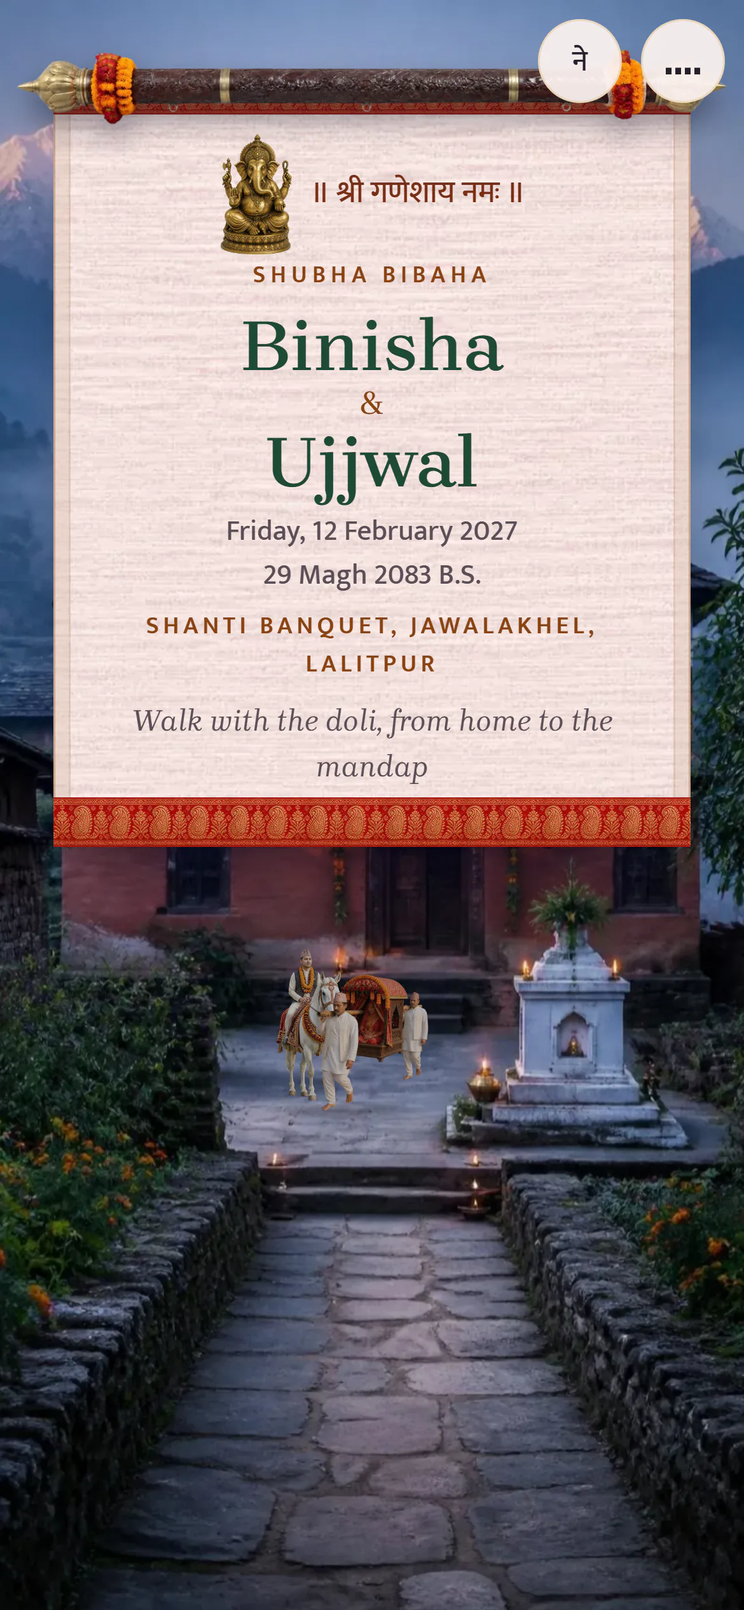
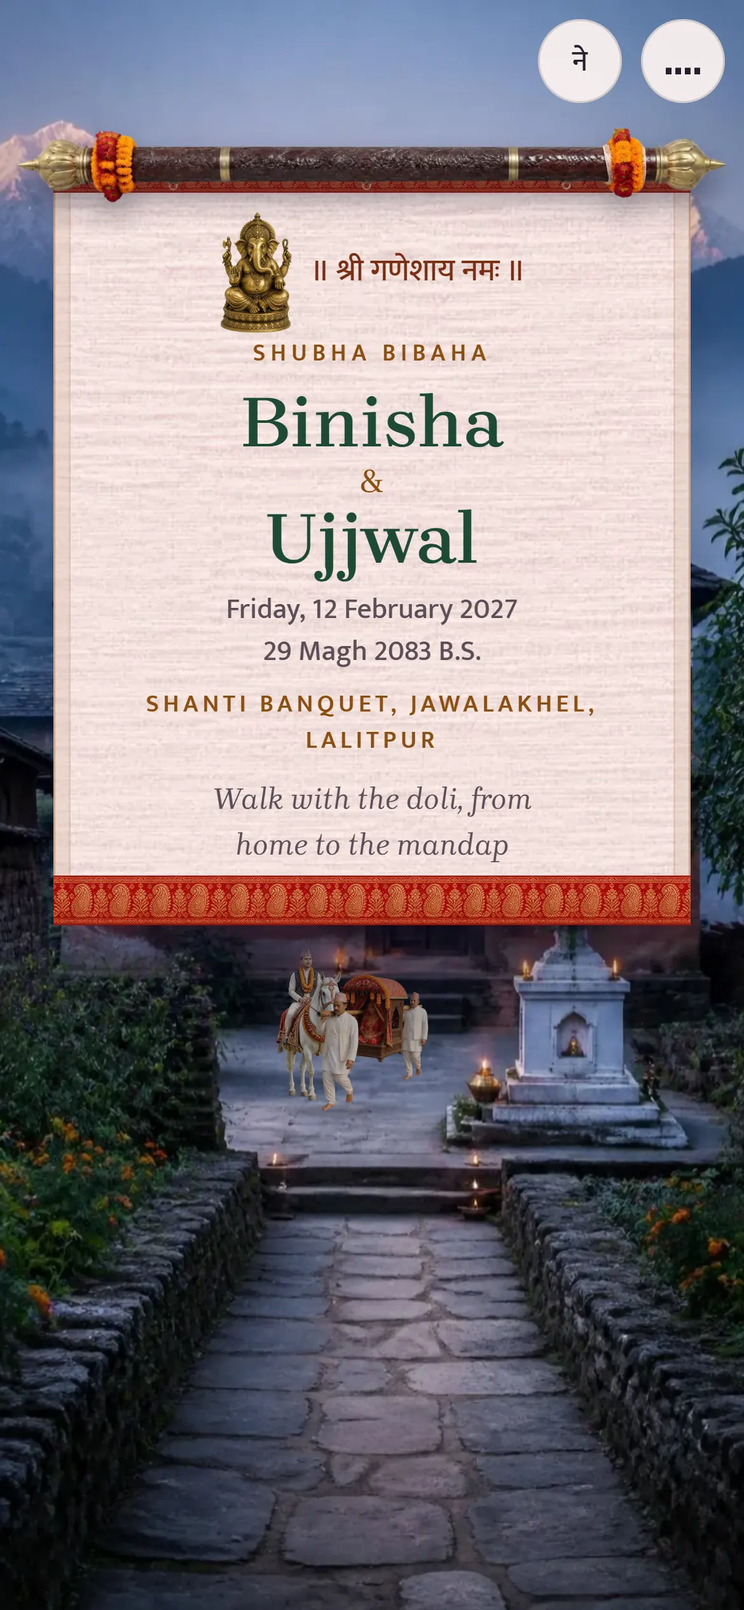
fix(palki): QA pass, the procession arrives at the gate and the mandap, phone and landscape fixes
- Dusk gate and mandap now have the procession: it comes in under the welcome gate and stops at the
  rangoli, then is carried in beside the mandap and set down clear of the sacred fire (stop scenes,
  night lighting), fading before the next place and before the blessing.
- Passing the camera: the procession sinks out under the lens instead of fading over the scene, and
  the near flowers slide out of frame (no ghosted flowers over the bearers).
- First banner and rolled band clear the language button and music pill; compact banner on short
  phones keeps the doli at the door in view; sideways phones hang it on the right, names on one line,
  photographs sized to the short screen.
- Photos keep a portrait place until they load (beats no longer jump ~1100px; studio focus lands first time).
- Rozha One really applies to Devanagari display text (the suite face was overriding it), never on
  numbers (it draws Devanagari digits as Latin).
- Studio: names patched live refit and update the gate initials; marigold colour now drives the small
  marigold text; music sheet readable (light panel), RSVP errors readable on indigo, light focus ring
  on the painted world.
- Preload uses imagesrcset (no double download of the first painting); reduced motion shows the doli
  at the door at home and arrived at the gate and mandap; stills and thumbs re-shot.

Changed region(s): [[0.0308, 0.0312, 0.9846, 0.624], [0.9538, 0.0312, 0.9846, 0.0624]]

diff --git a/src/themes/palki/palki.css b/src/themes/palki/palki.css
@@ -8,7 +8,7 @@ body.su.theme-palki {
   --su-ink-2: #5B4E57;
   --su-accent: #1E4A37;
   --su-accent-ink: #FFFFFF;
-  --su-gold: #C9721A;
+  --su-gold: var(--pk-marigold);
   --su-line: rgba(38, 32, 45, 0.18);
   --su-f-display: 'Brygada 1918', Georgia, serif;
   --su-f-script: 'Brygada 1918', Georgia, serif;
@@ -16,11 +16,19 @@ body.su.theme-palki {
   --su-f-deva: 'Mukta', sans-serif;
   --pk-deva-display: 'Rozha One', 'Mukta', serif;
   --pk-marigold: #C9721A;
-  --pk-marigold-ink: #8A4310; /* marigold as small text on the silk: 6:1 */
+  /* marigold as small text on the silk (6:1 with the default); follows the studio's marigold */
+  --pk-marigold-ink: #8A4310;
+  --pk-marigold-ink: color-mix(in srgb, var(--pk-marigold) 69%, #000);
   --pk-night: #171A3A;
   --pk-diyo: #F2C46B;
   --pk-silk: #F7E7E4;
   --su-radius: 4px;
+  /* core tokens (the music sheet): a dawn-silk panel with dark ink */
+  --bg-2: #FBF1EF;
+  --hair: rgba(38, 32, 45, 0.16);
+  --ink-dim: #5B4E57;
+  --accent-2: #26202D;
+  --pk-banner-top: calc(env(safe-area-inset-top, 0px) + 66px);
   --f-display: var(--su-f-body);
   --f-body: var(--su-f-body);
   --paper-accent: var(--su-accent);
@@ -30,6 +38,9 @@ body.su.theme-palki {
 }
 html:has(body.theme-palki) { background: #1B2238; }
 body.theme-palki .hud__btn, body.theme-palki .pill { background: rgba(251, 241, 239, 0.94); color: var(--su-ink); }
+body.theme-palki .sheet__list button { color: var(--su-ink); border-bottom-color: rgba(138, 67, 16, 0.18); }
+body.theme-palki .sheet__list button[aria-checked='true'] { background: rgba(201, 114, 26, 0.12); }
+body.theme-palki .sheet .eyebrow { color: var(--pk-marigold-ink); }
 
 /* ───────── the world behind the page ───────── */
 .pk-world { position: fixed; inset: 0; z-index: 0; overflow: hidden; pointer-events: none; background: #1B2238; contain: strict; }
@@ -51,12 +62,15 @@ body.theme-palki .hud__btn, body.theme-palki .pill { background: rgba(251, 241, 
 .pk-proc[data-light='dawn'] img { filter: brightness(0.78) contrast(0.96) saturate(0.82); }
 .pk-proc[data-light='sunrise'] img { filter: brightness(0.96) sepia(0.12) saturate(1.04); }
 .pk-proc[data-light='dusk'] img { filter: brightness(0.82) sepia(0.28) saturate(1.05); }
+.pk-proc[data-light='night'] img { filter: brightness(0.7) sepia(0.4) saturate(1.15); }
+.pk-proc[data-light='night'] .pk-proc__shadow, .pk-proc[data-light='dusk'] .pk-proc__shadow { opacity: 0.8; }
 
 /* fresh marigolds and roses close to the camera, on the day scenes only */
-.pk-near { position: absolute; inset: 0; z-index: 4; opacity: 0; --nk: 1; }
+.pk-near { position: absolute; inset: 0; z-index: 4; opacity: 0; --nk: 1; --no: 0; }
 .pk-near img { position: absolute; bottom: -7vh; width: clamp(220px, 30vw, 520px); height: auto; max-width: none; }
-.pk-near__l { left: -7vw; transform-origin: 0 100%; transform: scale(var(--nk)); }
-.pk-near__r { right: -7vw; transform-origin: 100% 100%; transform: scale(var(--nk)) scaleX(-1); }
+/* --no: the camera passes them (they slide out of the frame, outward and down) */
+.pk-near__l { left: -7vw; transform-origin: 0 100%; transform: translate(calc(var(--no) * -70%), calc(var(--no) * 45%)) scale(var(--nk)); }
+.pk-near__r { right: -7vw; transform-origin: 100% 100%; transform: translate(calc(var(--no) * 70%), calc(var(--no) * 45%)) scale(var(--nk)) scaleX(-1); }
 
 /* the mist the camera passes through between two places */
 .pk-veil { position: absolute; left: -20%; top: 0; z-index: 5; width: 140%; height: 100%; object-fit: cover; max-width: none; opacity: 0; will-change: transform, opacity; }
@@ -110,7 +124,7 @@ html[data-lang='ne'] .pk-lede { font-size: 18px; line-height: 1.8; }
 /* ───────── the first screen: the banner over the dawn ───────── */
 .pk-top { min-height: 100svh; display: block; overflow: visible; isolation: auto; }
 .pk-top .su-cue { color: #F7EEE9; text-shadow: 0 1px 8px rgba(10, 10, 30, 0.6); }
-.pk-banner { position: absolute; z-index: 2; top: clamp(10px, 3svh, 28px); right: clamp(20px, 6vw, 110px); width: min(440px, 36vw); container-type: inline-size; }
+.pk-banner { position: absolute; z-index: 2; top: var(--pk-banner-top); right: clamp(20px, 6vw, 110px); width: min(440px, 36vw); container-type: inline-size; }
 .pk-banner__rod { position: relative; z-index: 2; display: block; width: 112cqw; margin-left: -6cqw; height: auto; max-width: none; filter: drop-shadow(0 8px 8px rgba(10, 10, 30, 0.45)); }
 .pk-banner__cloth { position: relative; margin-top: -6.6cqw; padding: clamp(30px, 9cqw, 46px) clamp(16px, 6cqw, 34px) clamp(30px, 8cqw, 44px); text-align: center; transform-origin: 50% 0;
   background: url('/themes/palki/art/silk-blush.webp') center / 640px auto, var(--pk-silk);
@@ -129,7 +143,7 @@ html[data-lang='ne'] .pk-lede { font-size: 18px; line-height: 1.8; }
 .pk-banner__date > span { display: block; font-size: 15px; color: var(--su-ink-2); }
 .pk-banner__place { margin: 6px 0 0; font: 600 13px/1.5 var(--su-f-body); letter-spacing: 0.16em; text-transform: uppercase; color: var(--pk-marigold-ink); }
 .pk-banner__place .l-ne { font-size: 15px; letter-spacing: 0; text-transform: none; }
-.pk-banner__line { margin: 12px auto 0; max-width: 30ch; font: italic 400 17px/1.5 var(--su-f-display); color: var(--su-ink-2); }
+.pk-banner__line { margin: 12px auto 0; max-width: 30ch; text-wrap: balance; font: italic 400 17px/1.5 var(--su-f-display); color: var(--su-ink-2); }
 .pk-banner__line .l-ne { font: 400 17px/1.7 var(--su-f-body); font-style: normal; }
 /* under the closed gate the banner is still rolled on its pole */
 body.pk-rolled .pk-banner { opacity: 0; }
@@ -140,7 +154,7 @@ body.pk-rolled .pk-banner { opacity: 0; }
 .pk-g__mist { position: absolute; left: -15%; width: 130%; height: 70%; object-fit: cover; max-width: none; opacity: 0.95; will-change: transform, opacity; }
 .pk-g__mist--a { bottom: -6%; }
 .pk-g__mist--b { top: -4%; transform: scale(-1, -1); opacity: 0.7; }
-.pk-g__roll { position: absolute; top: clamp(10px, 3svh, 28px); right: clamp(20px, 6vw, 110px); width: min(440px, 36vw); container-type: inline-size; cursor: pointer; pointer-events: auto; }
+.pk-g__roll { position: absolute; top: var(--pk-banner-top); right: clamp(20px, 6vw, 110px); width: min(440px, 36vw); container-type: inline-size; cursor: pointer; pointer-events: auto; }
 .pk-g__rod { position: relative; z-index: 2; display: block; width: 112cqw; margin-left: -6cqw; height: auto; max-width: none; filter: drop-shadow(0 8px 8px rgba(10, 10, 30, 0.45)); }
 .pk-g__band { position: relative; margin: -6.6cqw 2cqw 0; padding: 30px 12px 22px; background: url('/themes/palki/art/silk-blush.webp') center / 520px auto, var(--pk-silk);
   box-shadow: inset 0 -14px 14px -10px rgba(90, 40, 30, 0.35), 0 18px 30px -16px rgba(8, 8, 30, 0.75); }
@@ -235,9 +249,9 @@ body.pk-rolled .pk-banner { opacity: 0; }
 .pk-day__wd { margin: 0; font: 600 13px/1.4 var(--su-f-body); letter-spacing: 0.22em; text-transform: uppercase; color: var(--pk-marigold-ink); }
 .pk-day__wd .l-ne { font-size: 16px; letter-spacing: 0; }
 .pk-day__big { margin: 2px 0; font: 500 clamp(72px, 16cqw, 96px)/1 var(--su-f-display); color: var(--su-accent); }
-.pk-day__big .l-ne { font-family: var(--pk-deva-display); }
+.pk-day__big .l-ne { font-family: var(--su-f-deva); font-weight: 600; }
 .pk-day__my { margin: 0; font: italic 500 22px/1.3 var(--su-f-display); }
-.pk-day__my .l-ne { font: 400 21px/1.5 var(--pk-deva-display); font-style: normal; }
+.pk-day__my .l-ne { font: 500 21px/1.5 var(--su-f-deva); font-style: normal; }
 .pk-day__alt { margin: 6px 0 0; font-size: 15px; color: var(--su-ink-2); }
 .pk-day__time { margin: 10px 0 0; font: 600 16px/1.4 var(--su-f-body); }
 .pk-day__place { margin: 4px 0 0; font-size: 15.5px; color: var(--su-ink-2); }
@@ -248,7 +262,7 @@ body.pk-rolled .pk-banner { opacity: 0; }
 .pk-count__grid li { display: flex; flex-direction: column; align-items: center; padding: 8px 0; border-left: 1px solid rgba(138, 67, 16, 0.3); }
 .pk-count__grid li:first-child { border-left: 0; }
 .pk-count__n { font: 500 clamp(34px, 9cqw, 48px)/1 var(--su-f-display); color: var(--su-accent); font-variant-numeric: tabular-nums; }
-.pk-count__n .l-ne { font-family: var(--pk-deva-display); }
+.pk-count__n .l-ne { font-family: var(--su-f-deva); font-weight: 600; }
 .pk-count__l { margin-top: 6px; font: 600 11.5px/1.2 var(--su-f-body); letter-spacing: 0.16em; text-transform: uppercase; color: var(--su-ink-2); }
 .pk-count__l .l-ne { font-size: 14px; letter-spacing: 0; text-transform: none; }
 .pk-count__done { margin: 0; font: italic 500 24px/1.4 var(--su-f-display); color: var(--su-accent); }
@@ -261,28 +275,28 @@ body.pk-rolled .pk-banner { opacity: 0; }
 .pk-vows li { display: grid; grid-template-columns: 34px 1fr; gap: 12px; align-items: baseline; padding: 8px 0; border-top: 1px solid rgba(242, 196, 107, 0.22); font-size: 16.5px; line-height: 1.6; }
 .pk-vows li:first-child { border-top: 0; }
 .pk-vows__n { font: italic 500 22px/1 var(--su-f-display); color: var(--pk-diyo); text-align: center; }
-.pk-vows__n .l-ne { font-family: var(--pk-deva-display); font-style: normal; }
+.pk-vows__n .l-ne { font-family: var(--su-f-deva); font-style: normal; }
 .pk-cloth--rsvp .su-form { margin-top: 22px; text-align: left; }
 .pk-cloth--rsvp .su-field > label, .pk-cloth--rsvp .su-field > legend { color: #F6EEE3; }
 .pk-cloth--rsvp .su-field input[type='text'], .pk-cloth--rsvp .su-field input[type='tel'], .pk-cloth--rsvp .su-field textarea, .pk-cloth--rsvp .su-field select {
   background: rgba(255, 252, 248, 0.97); color: var(--su-ink); border: 1px solid rgba(242, 196, 107, 0.6); border-radius: 2px; }
 .pk-cloth--rsvp .choice { border-color: rgba(242, 196, 107, 0.45); color: #F6EEE3; }
 .theme-palki .pk-cloth--rsvp .choice:has(input:checked) { border-color: var(--pk-diyo); box-shadow: inset 0 0 0 1px var(--pk-diyo); }
-.pk-cloth--rsvp { --paper-accent: var(--pk-diyo); }
+.pk-cloth--rsvp { --paper-accent: var(--pk-diyo); --err: #FFB4A8; }
 .pk-cloth--rsvp .choice { font: 500 16.5px/1.3 var(--su-f-body); }
 .theme-palki .pk-cloth--rsvp .gstep { color: #F6EEE3; border-color: rgba(242, 196, 107, 0.5); }
 .theme-palki .pk-cloth--rsvp .gstep__b { color: #F6EEE3; background: rgba(255, 255, 255, 0.1); }
 .pk-cloth--rsvp .su-btn { width: 100%; background: var(--pk-diyo); border-color: var(--pk-diyo); color: #1B1C33; }
 .pk-cloth--rsvp .rsvp__status { color: #F6EEE3; }
-.pk-cloth--rsvp .su-err { color: #FFB4A8; }
+.pk-cloth--rsvp .su-err, body.theme-palki .pk-cloth--rsvp .rsvp__status.is-error, .pk-cloth--rsvp .field__err { color: #FFB4A8; }
 .pk-cloth--night :focus-visible { outline-color: var(--pk-diyo); }
 
 /* the blessing, under the lamps */
 .pk-close { position: relative; z-index: 1; padding: 12svh 20px 40px; text-align: center; color: #F6EEE3; background: linear-gradient(180deg, rgba(14, 14, 36, 0), rgba(14, 14, 36, 0.86) 34%, #12122A); }
 .pk-close__lamps { display: flex; justify-content: center; gap: 60px; margin-bottom: 18px; }
 .pk-close__diyo { width: 64px; }
-.pk-close__ne { margin: 0 auto; max-width: 34ch; font: 400 22px/1.7 var(--pk-deva-display); color: var(--pk-diyo); }
-.pk-close__en { margin: 10px auto 0; max-width: 40ch; font: italic 400 19px/1.6 var(--su-f-display); }
+.pk-close__ne { margin: 0 auto; max-width: 34ch; text-wrap: balance; font: 400 22px/1.7 var(--pk-deva-display); color: var(--pk-diyo); }
+.pk-close__en { margin: 10px auto 0; max-width: 40ch; text-wrap: balance; font: italic 400 19px/1.6 var(--su-f-display); }
 .pk-close__names { margin: 22px 0 0; font: 500 clamp(30px, 4vw, 44px)/1.2 var(--su-f-display); color: #FFF7EC; }
 .pk-close__names .l-ne { font-family: var(--pk-deva-display); }
 .pk-close__tag { margin: 10px 0 0; font-size: 15px; letter-spacing: 0.08em; color: #E2D3C2; }
@@ -314,6 +328,29 @@ body.pk-rolled .pk-banner { opacity: 0; }
   .pk-cloth, .pk-ev .pk-cloth, .pk-cloth--title, .pk-cloth--slip { width: min(460px, calc(100vw - 48px)); }
   .pk-near img { width: clamp(180px, 46vw, 300px); bottom: -4vh; }
 }
+/* short phones: a more compact banner, so the doli waiting at the door stays in view below it */
+@media (max-width: 899px) and (max-height: 800px) {
+  body.su.theme-palki { --pk-banner-top: calc(env(safe-area-inset-top, 0px) + 58px); }
+  .pk-banner__cloth { padding-top: 18px; padding-bottom: 24px; }
+  .pk-banner__gan { width: 30px; }
+  .pk-names { font-size: clamp(32px, 10cqw, 40px); }
+  .pk-banner__date { font-size: 15.5px; line-height: 1.4; }
+  .pk-banner__date > span { font-size: 14px; }
+  .pk-banner__line { max-width: none; margin-top: 6px; font-size: 15px; }
+}
+/* phones held sideways: the banner hangs on the right, clear of the house and the doli at its door */
+@media (max-width: 899px) and (orientation: landscape) and (max-height: 520px) {
+  .pk-banner, .pk-g__roll { left: auto; right: max(28px, env(safe-area-inset-right, 0px)); translate: none; width: min(360px, 44vw); }
+  .pk-banner__inv { margin-bottom: 0; }
+  .pk-names { flex-direction: row; justify-content: center; flex-wrap: wrap; column-gap: 10px; font-size: clamp(28px, 9cqw, 34px); }
+  .pk-names__amp { margin: 0; align-self: center; }
+  .pk-banner__cloth { padding-top: 14px; padding-bottom: 22px; }
+  /* photographs sized to the short screen: each one seen whole */
+  .pk-window { width: min(250px, 32vw); }
+  .pk-album { grid-template-columns: repeat(3, minmax(0, 1fr)); width: min(620px, 100%); }
+  .pk-album__ph:nth-child(2n) { margin-top: 0; }
+  .pk-album__ph:nth-child(3n + 2) { margin-top: 24px; }
+}
 @media (max-width: 420px) {
   .pk-cloth__body { padding-left: 16px; padding-right: 16px; }
   .pk-ev__dl > div { grid-template-columns: 1fr; gap: 0; }
@@ -325,3 +362,16 @@ body.pk-rolled .pk-banner { opacity: 0; }
 @media (prefers-reduced-motion: reduce) {
   .pk-window__cur, .pk-cloth__body, .pk-album__ph, .pk-tag { transition: none !important; }
 }
+
+/* focus on the painted world (the opening, the buttons hung over the scene): a light ring that reads on dawn and night */
+.theme-palki .su-gate :focus-visible, .theme-palki .pk-btns :focus-visible, .theme-palki .pk-more:focus-visible, .theme-palki .su-cue:focus-visible, .theme-palki .pk-close :focus-visible {
+  outline: 2px solid #FFF3E6; outline-offset: 3px; }
+
+/* photographs keep a portrait place until they arrive (the beats below them stay where they are: no jumps) */
+.pk-window__pic img, .pk-album__btn img, .pk-fam__pic img { aspect-ratio: auto 4 / 5; }
+
+/* the Devanagari display face (Rozha One): stated with the theme's weight, so the suite's reading face for .l-ne
+   (loaded after this file) does not take it back. Never on numbers: Rozha One draws ०-९ as Latin 0-9, so dates and
+   counts stay in Mukta. */
+body.theme-palki :is(.pk-names, .pk-h, .pk-tag__t, .pk-fam__name, .pk-ev__title, .pk-count__t, .pk-g__mono, .pk-close__names) .l-ne,
+body.theme-palki .pk-close__ne { font-family: var(--pk-deva-display); }

diff --git a/src/themes/palki/main.js b/src/themes/palki/main.js
@@ -33,13 +33,14 @@ const SCENES = [
   { n: 's4', light: 'day', alt: 'A suspension bridge hung with marigolds over a turquoise river, a pagoda temple on the far bank, a snow peak above',
     L: { fx: 0.45, fy: 0.6, path: [[0.47, 0.75, 0.08], [0.4, 0.86, 0.2], [0.34, 1.0, 0.48]] },
     P: { fx: 0.5, fy: 0.6, path: [[0.47, 0.74, 0.07], [0.47, 0.86, 0.17], [0.5, 1.0, 0.32]] } },
-  { n: 's5', light: 'dusk', alt: 'A welcome gate of banana stems and marigold garlands at dusk, brass kalash, a petal rangoli and rows of lit diyos',
-    // the procession has gone in under the gate: the lamps are lit and the gate waits for the guests
-    L: { fx: 0.5, fy: 0.6, path: null },
-    P: { fx: 0.5, fy: 0.6, path: null } },
-  { n: 's6', light: 'night', alt: 'A mandap dressed in marigolds and roses under the night sky, the sacred fire lit, hundreds of diyos around it',
-    L: { fx: 0.5, fy: 0.55, path: null },
-    P: { fx: 0.5, fy: 0.6, path: null } },
+  { n: 's5', light: 'dusk', stop: true, alt: 'A welcome gate of banana stems and marigold garlands at dusk, brass kalash, a petal rangoli and rows of lit diyos',
+    // the procession comes through the welcome gate and stops at the edge of the rangoli, where the guests wait
+    L: { fx: 0.5, fy: 0.6, path: [[0.47, 0.585, 0.075], [0.47, 0.68, 0.15], [0.47, 0.795, 0.27]] },
+    P: { fx: 0.5, fy: 0.6, path: [[0.5, 0.615, 0.05], [0.5, 0.65, 0.1], [0.5, 0.69, 0.18]] } },
+  { n: 's6', light: 'night', stop: true, alt: 'A mandap dressed in marigolds and roses under the night sky, the sacred fire lit, hundreds of diyos around it',
+    // the doli is carried in beside the mandap and set down there, clear of the sacred fire
+    L: { fx: 0.5, fy: 0.55, path: [[0.12, 0.68, 0.15], [0.18, 0.74, 0.21], [0.24, 0.81, 0.29]] },
+    P: { fx: 0.5, fy: 0.6, path: [[0.27, 0.64, 0.08], [0.31, 0.69, 0.12], [0.35, 0.74, 0.17]] } },
 ];
 
 const pic = (s, eager) => {
@@ -263,7 +264,7 @@ function journey(ctx) {
   };
   load(0); load(1);
 
-  let vw = 0; let vh = 0; let ori = 'L'; let geo = []; let A = []; let base = 1000;
+  let vw = 0; let vh = 0; let ori = 'L'; let geo = []; let A = []; let base = 1000; let closeTop = Infinity;
   function layout() {
     vw = window.innerWidth; vh = window.innerHeight;
     ori = window.matchMedia(PORTRAIT_Q).matches ? 'P' : 'L';
@@ -287,6 +288,8 @@ function journey(ctx) {
     proc.dataset.ori = ori;
     // where each chapter's beat begins and ends on the page
     A = beats.map((b) => { const r = b.getBoundingClientRect(); const top = r.top + window.scrollY; return { a: top, b: top + b.offsetHeight }; });
+    const close = document.querySelector('.pk-close');
+    closeTop = close ? close.getBoundingClientRect().top + window.scrollY : Infinity;
   }
 
   // a scene point after the scene's push-in scale s
@@ -299,7 +302,7 @@ function journey(ctx) {
     const u = (1 - t) * (1 - t) * f[0] + 2 * (1 - t) * t * m[0] + t * t * nr[0];
     let v = (1 - t) * (1 - t) * f[1] + 2 * (1 - t) * t * m[1] + t * t * nr[1];
     let h = f[2] * (nr[2] / f[2]) ** t;
-    if (qq > 1) { const e = qq - 1; v += e * 0.55; h *= 1 + e * 1.3; } // past the camera
+    if (qq > 1) { const e = qq - 1; v += e * 2.6; h *= 1 + e * 1.2; } // past the camera: they sink out under the lens
     return { u, v, h };
   };
 
@@ -338,7 +341,7 @@ function journey(ctx) {
   function render() {
     const y = window.scrollY;
     if (reduced) {
-      // still: the chapter in view shows its painting (a fade), the procession stands half-way down its trail
+      // still: the chapter in view shows its painting (a fade), the procession stands on its trail (arrived, at the end)
       let i = 0; for (let k = 0; k < A.length; k++) if (y >= A[k].a - vh * 0.5) i = k;
       const key = `${i}|${ori}|${vw}x${vh}`;
       if (key === lastKey) return;
@@ -346,7 +349,7 @@ function journey(ctx) {
       setScene(i);
       scenes.forEach((sc, k) => sc.classList.toggle('is-on', k === i));
       plates.forEach((pl) => { pl.style.transform = 'none'; });
-      place(i, 0.72, 1, 1);
+      place(i, SCENES[i].stop ? 1 : i === 0 ? 0 : 0.55, 1, 1); // home: at the door; on the road: mid-way, whole in view
       return;
     }
     // which scenes are on screen: chapter i takes over as its beat comes up (the camera passes through the mist)
@@ -377,14 +380,21 @@ function journey(ctx) {
 
     // the procession: down this scene's trail toward the camera, then past it
     const B = A[i];
-    const W0 = i === 0 ? 0 : B.a - vh * 0.1; const W1 = B.b - vh * 1.0;
-    const q = (y - W0) / Math.max(1, W1 - W0);
-    const alpha = clamp((q + 0.12) / 0.12) * (1 - clamp((q - 1.04) / 0.22)) * (i > 0 ? clamp((k - 0.55) / 0.3) : 1);
+    const stop = !!SCENES[i].stop; // the last two places: the procession arrives and stays
+    const W0 = i === 0 ? 0 : B.a - vh * 0.1; const W1 = B.b - vh * (stop ? 1.15 : 1.0);
+    const q0 = (y - W0) / Math.max(1, W1 - W0);
+    const q = stop ? Math.min(1, q0) : q0;
+    let alpha = clamp((q0 + 0.12) / 0.12) * (i > 0 ? clamp((k - 0.55) / 0.3) : 1);
+    if (!stop) alpha *= 1 - clamp((q - 1.1) / 0.12); // mostly below the frame by then: no ghosts over the scene
+    else if (A[i + 1]) alpha *= 1 - clamp((y - (A[i + 1].a - vh * 1.25)) / (vh * 0.5)); // gone before the next place
+    else alpha *= 1 - clamp((y - (closeTop - vh * 0.9)) / (vh * 0.5)); // the last place: gone before the blessing
     const s = (1 + 0.07 * (1 - ke)) * (1 + 0.05 * life(i));
     place(i, q, s, alpha);
-    // the near flowers frame the walk on the day scenes, then step aside for the words
-    const fl = SCENES[i].light === 'day' || SCENES[i].light === 'sunrise' ? clamp(q * 4 + 0.2) * (1 - clamp((q - 0.9) / 0.25)) * (i > 0 ? ke : 1) : 0;
+    // the near flowers frame the walk on the day scenes; as the procession reaches the camera they slide out past the
+    // lens (never fade over the bearers)
+    const fl = SCENES[i].light === 'day' || SCENES[i].light === 'sunrise' ? clamp(q * 4 + 0.2) * (i > 0 ? ke : 1) : 0;
     near.style.opacity = fl.toFixed(3);
+    near.style.setProperty('--no', smooth(clamp((q - 0.8) / 0.4)).toFixed(3));
     near.style.setProperty('--nk', (1 + 0.25 * clamp(q)).toFixed(3));
   }
 
@@ -458,6 +468,26 @@ function fitNames() {
   for (let i = 0; i < 14 && [...h.querySelectorAll('.pk-names__n')].some((n) => n.scrollWidth > max); i++) { fs *= 0.93; h.style.fontSize = `${fs}px`; }
 }
 
+// the studio edits the names in place (a live patch): fit them again and keep the rolled banner's initials in step
+function watchNames() {
+  const h = document.querySelector('.pk-names');
+  if (!h || !('MutationObserver' in window)) return;
+  const firstOf = (t) => { const v = String(t || '').trim(); if (!v) return ''; try { return [...new Intl.Segmenter('ne', { granularity: 'grapheme' }).segment(v)][0].segment; } catch { return v.charAt(0); } };
+  let raf = 0;
+  new MutationObserver(() => {
+    cancelAnimationFrame(raf);
+    raf = requestAnimationFrame(() => {
+      fitNames();
+      const names = [...h.querySelectorAll('.pk-names__n')];
+      const mono = [...document.querySelectorAll('.pk-g__mono > span')];
+      names.forEach((n, i) => ['l-en', 'l-ne'].forEach((c) => {
+        const to = mono[i]?.querySelector(`.${c}`); const from = n.querySelector(`.${c}`);
+        if (to && from) { const v = firstOf(from.textContent); if (to.textContent !== v) to.textContent = v; }
+      }));
+    });
+  }).observe(h, { subtree: true, characterData: true, childList: true });
+}
+
 let J = null;
 const SPEC = {
   slug: 'palki',
@@ -472,6 +502,7 @@ const SPEC = {
     initNepali();
     fitNames();
     document.fonts?.ready.then(fitNames);
+    watchNames();
     let rw = window.innerWidth;
     window.addEventListener('resize', () => { if (window.innerWidth === rw) return; rw = window.innerWidth; fitNames(); });
     J = journey(ctx);

diff --git a/palki/index.html b/palki/index.html
@@ -16,8 +16,8 @@
   <link rel="preconnect" href="https://fonts.googleapis.com" />
   <link rel="preconnect" href="https://fonts.gstatic.com" crossorigin />
   <link rel="stylesheet" href="https://fonts.googleapis.com/css2?family=Brygada+1918:ital,wght@0,400;0,500;0,600;1,400;1,500&family=Rozha+One&family=Mukta:wght@400;500;600&display=swap" />
-  <link rel="preload" as="image" href="/themes/palki/art/s1-p-sm.webp" media="(max-aspect-ratio: 9/10)" />
-  <link rel="preload" as="image" href="/themes/palki/art/s1-l.webp" media="(min-aspect-ratio: 9/10)" />
+  <link rel="preload" as="image" imagesrcset="/themes/palki/art/s1-p-sm.webp 600w, /themes/palki/art/s1-p.webp 944w" imagesizes="100vw" media="(max-aspect-ratio: 9/10)" />
+  <link rel="preload" as="image" imagesrcset="/themes/palki/art/s1-l-sm.webp 1024w, /themes/palki/art/s1-l.webp 1680w" imagesizes="100vw" media="(min-aspect-ratio: 9/10)" />
 </head>
 <body class="theme-palki">
   <main id="main"></main>

diff --git a/src/themes/palki/README.md b/src/themes/palki/README.md
@@ -27,7 +27,7 @@ painting, sized to cover with a focal point. As the guest scrolls, the processio
 on the horse) walks each scene's trail from the far distance toward the camera with perspective (geometric growth along
 a curve, a step bob tied to the distance walked), then past it. Between scenes the camera pushes on: the old painting
 scales up and fades, mist passes the lens, the next painting settles in. Day scenes get fresh marigold and rose bushes
-close to the lens. Transform and opacity only; the cut-outs are lit per scene (dawn, sunrise, day, dusk).
+close to the lens. Transform and opacity only; the cut-outs are lit per scene (dawn, sunrise, day, dusk, night).
 
 Chapters (`.pk-beat` = the walk, then the chapter's cloths):
 1. Home at dawn: the elders' blessing, the card line, hosts, kalash and diyo, the full card.
@@ -35,11 +35,17 @@ Chapters (`.pk-beat` = the walk, then the chapter's cloths):
 3. The chautari (a pipal and a bar tree side by side): the two families on two cloths, the ganthi bandhan between.
 4. Across the river (suspension bridge, pagoda temple): one cloth per celebration (AD + B.S., time, venue + map, dress,
    order of the day), calendar and share, travel/stays/contacts.
-5. Arriving at dusk (the welcome gate, rangoli, diyos): the day under a dawn mist you scratch away, the countdown.
-6. The mandap on the night of lamps: the seven steps (saptapadi), the reply on indigo silk, the blessing with two diyos.
+5. Arriving at dusk (the welcome gate, rangoli, diyos): the procession comes in under the gate and stops at the rangoli;
+   the day under a dawn mist you scratch away, the countdown.
+6. The mandap on the night of lamps: the doli is carried in beside the mandap and set down, clear of the sacred fire;
+   the seven steps (saptapadi), the reply on indigo silk, the blessing with two diyos.
+
+In the first four places the procession walks toward the camera and sinks out under the lens; in the last two it
+arrives and stays (`stop: true`), then fades before the next place. The near flowers slide out of the frame as the
+procession reaches the camera (never fade over the bearers).
 
 Reduced motion / `?still`: the world swaps paintings with a fade as each chapter comes up; the procession stands still
-half-way down the trail; no walking, no push-in, no mist; the opening is a plain fade.
+(at the door at home, half-way down the trail on the road, arrived at the gate and the mandap); no walking, no push-in, no mist; the opening is a plain fade.
 
 ## Slots (`slots.js`)
 Images: `hero.ganesh`, `couple.lead`, `gallery.1`–`6`, `families.bride|groom`. Texts: gate line/buttons, Ganesh on/off,
